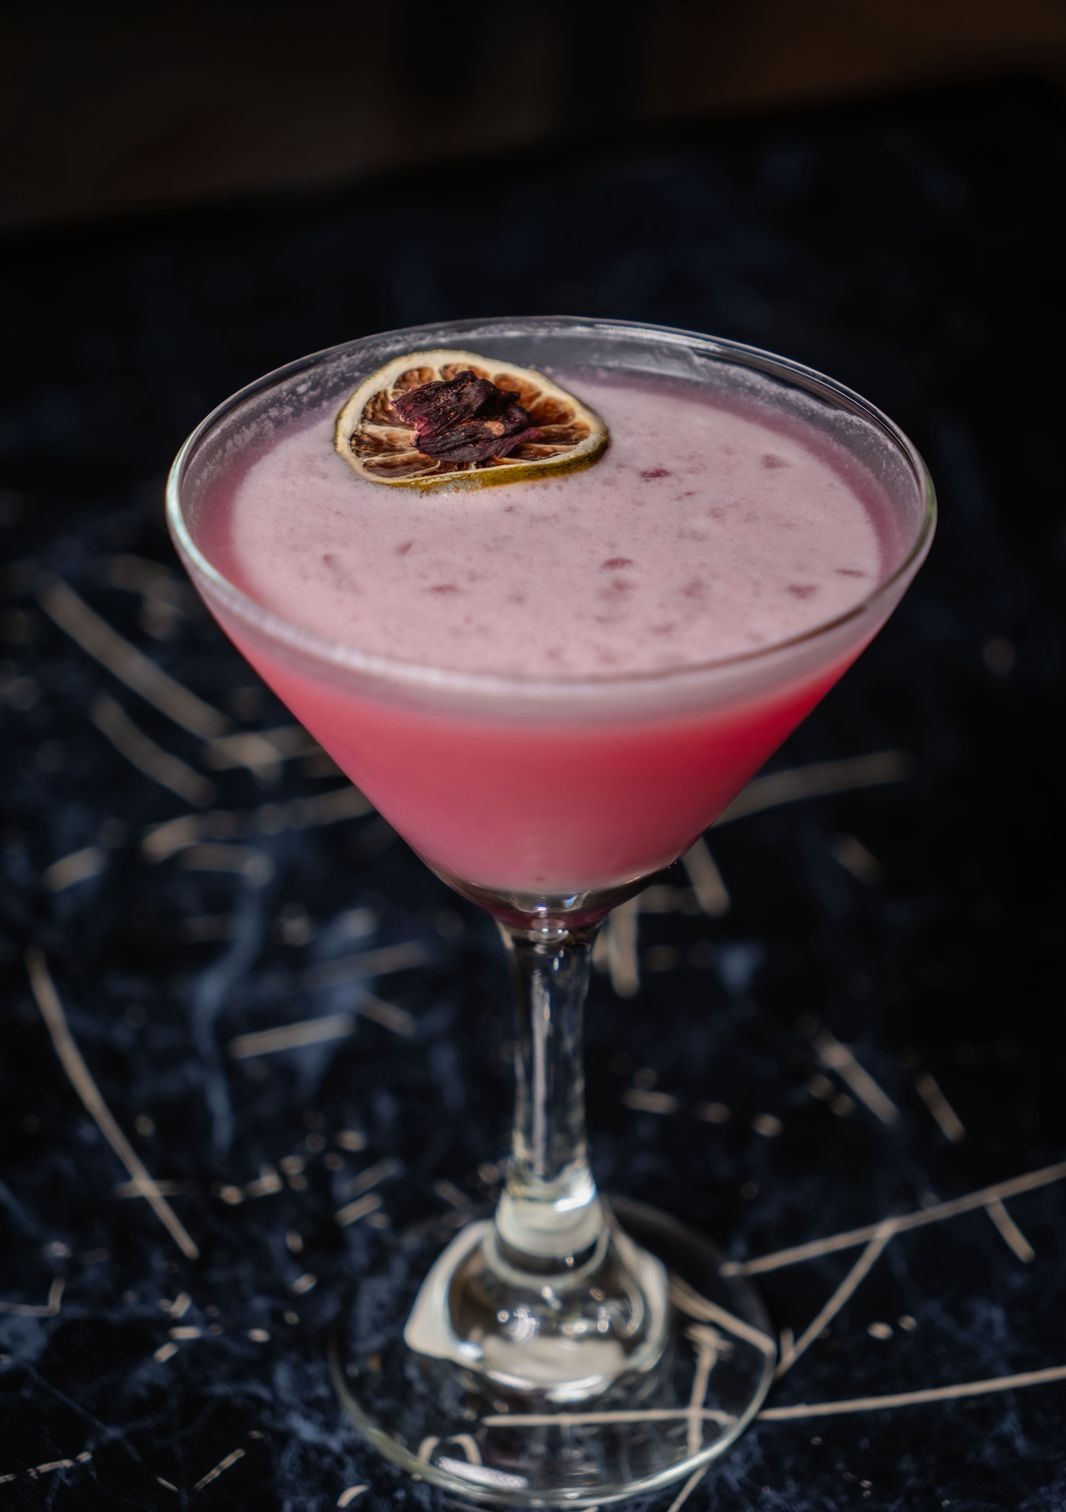
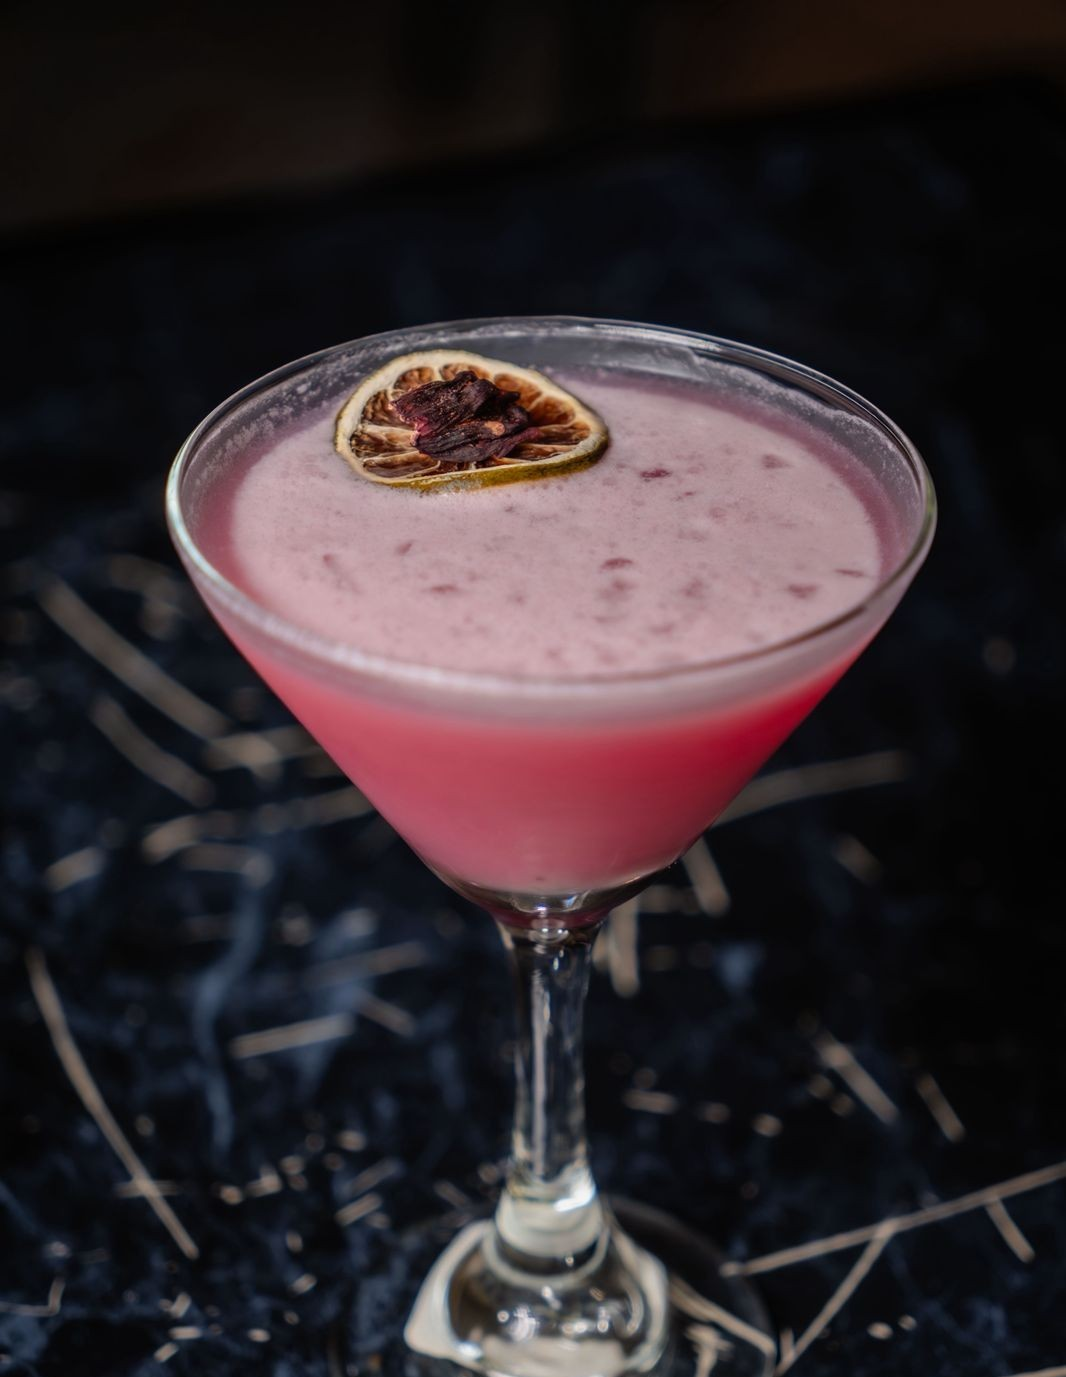
253

diff --git a/index.html b/index.html
@@ -213,8 +213,9 @@
     max-height:88vh; overflow-y:auto;
     animation:lbUp .3s ease;
   }
-  @keyframes lbUp { from{transform:translateY(60px)} to{transform:none} }
-  .lb-img { width:100%; height:400px; object-fit:cover; object-position:center bottom; display:block; border-radius:28px 28px 0 0; background:linear-gradient(135deg,#c8d9b0,#a0be88); }
+  @keyframes lbUp { from{transform:translateY(60px)} to{transform:none} } 
+
+  .lb-img { width:100%; height:320px; object-fit:contain; object-position:center center; display:block; border-radius:28px 28px 0 0; background:#0d0d0d; }
   .lb-body { padding:22px 22px 32px; }
   .lb-price { font-family:'Playfair Display',serif; font-size:22px; font-weight:700; color:var(--green); margin-bottom:4px; }
   .lb-name { font-family:'Playfair Display',serif; font-size:20px; font-weight:600; color:var(--dark); margin-bottom:10px; line-height:1.2; }